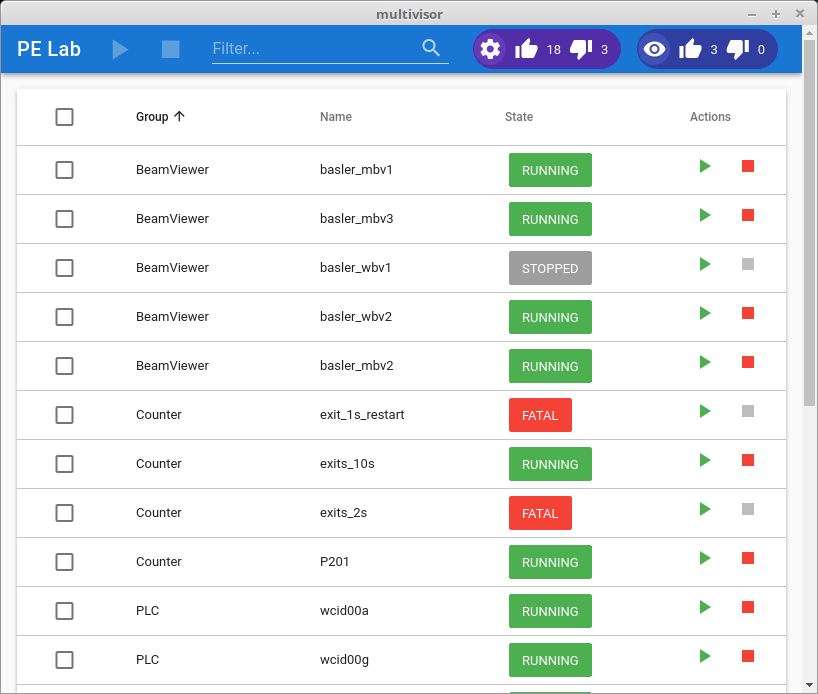
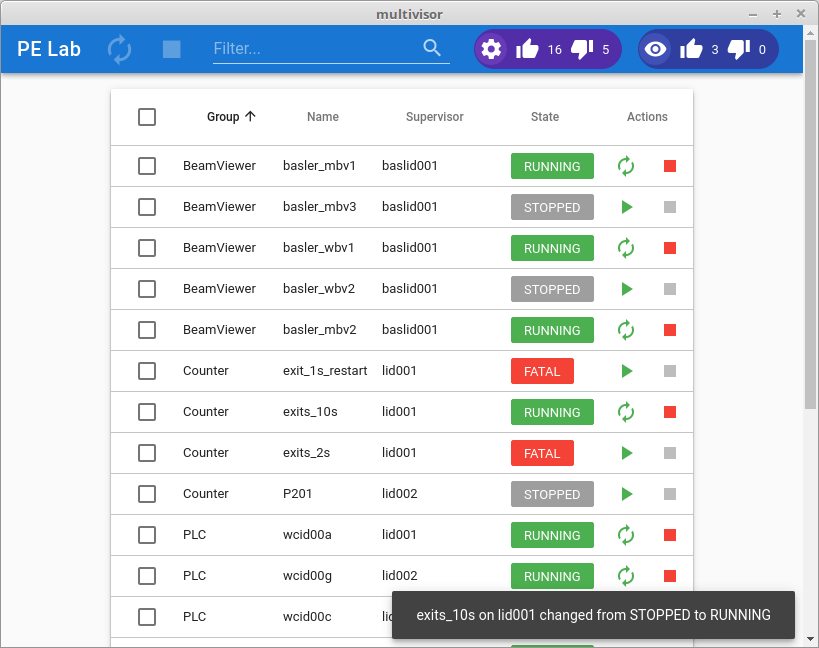
doc: update screenshot

diff --git a/README.md b/README.md
@@ -15,6 +15,7 @@ A centralized supervisor web UI inspired by [cesi](https://github.com/gamegos/ce
 # Fetch the project:
 git clone git://github.com/tiagocoutinho/multivisor
 cd multivisor
+
 # Prepare backend: feel free to use your favorite python virtual env. here
 pip install -r requirements.txt
 
@@ -31,10 +32,18 @@ supervisord -c examples/full_example/supervisord_baslid001.conf
 # Finally, launch multivisor:
 ./multivisor -c examples/full_example/multivisor.conf
 ```
+
 That's it! Start a browser pointing to [localhost:22000](http://localhost:22000) and
-you should be able to somthing that looks like this:
+you should be able to see something that looks like this:
+
+Multivisor running on google chrome desktop:
 
 ![multivisor on chrome desktop app mode](doc/multivisor_desktop.png)
+
+Multivisor running on a mobile:
+
+![multivisor on mobile](doc/multivisor_mobile.png)
+
 
 ## Technologies
 
